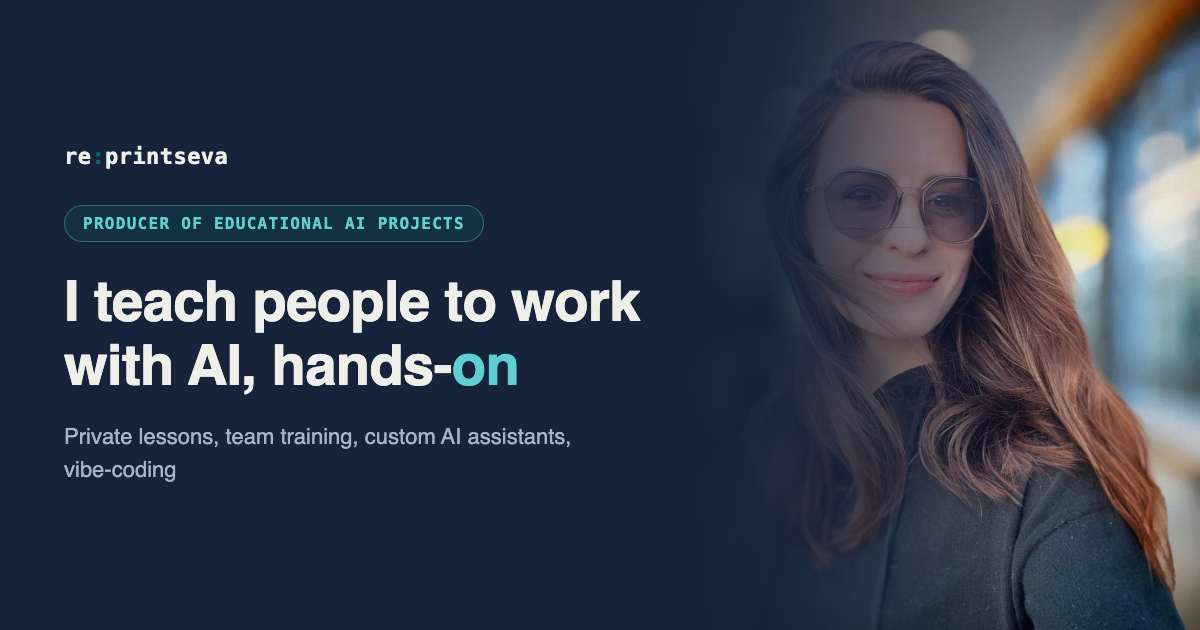
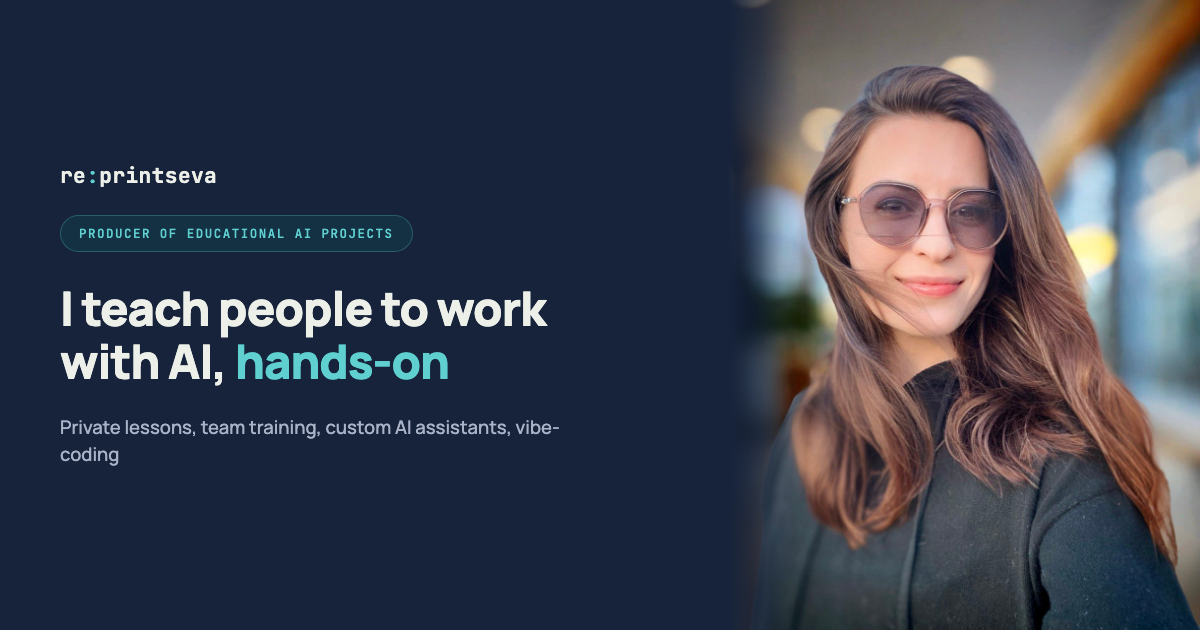
Обложка для соцсетей: градиент больше не лежит на лице
Прежняя заливка тянулась до x≈1085 и притемняла левую половину
портрета. Теперь затемнения поверх фото нет вовсе — текст занимает
левые 660px, фото начинается с 728, перекрытия не было изначально.
Шов убран мягким растворением левого края фото в фон (до x≈799,
волосы начинаются с 802).

- og:title и og:description возвращены к короткому варианту —
  он совпадает с текстом на самой картинке
- длинное описание оставлено в meta description для поиска
- добавлен шаблон и скрипт, которыми обложка пересобирается:
  materials/social-images/template-og-personal.html + generate-og-personal.sh
  (исходника прежней обложки не сохранилось)

diff --git a/index.html b/index.html
@@ -10,15 +10,15 @@
 <meta property="og:type" content="website">
 <meta property="og:site_name" content="re:printseva">
 <meta property="og:url" content="https://reprintseva.pro/">
-<meta property="og:title" content="Юлия Репринцева — эксперт по применению ИИ, продюсер образовательных ИИ-проектов">
-<meta property="og:description" content="Учу пользоваться ИИ по-настоящему: частные занятия, обучение команд, кастомные ИИ-ассистенты и продюсирование образовательных ИИ-проектов.">
+<meta property="og:title" content="Юлия Репринцева — обучаю работать с ИИ на практике">
+<meta property="og:description" content="Частные занятия, обучение команд, кастомные ИИ-ассистенты и продюсирование образовательных ИИ-проектов.">
 <meta property="og:image" content="https://reprintseva.pro/assets/img/og-cover.png">
 <meta property="og:image:width" content="1200">
 <meta property="og:image:height" content="630">
 <meta property="og:locale" content="ru_RU">
 <meta name="twitter:card" content="summary_large_image">
-<meta name="twitter:title" content="Юлия Репринцева — эксперт по применению ИИ, продюсер образовательных ИИ-проектов">
-<meta name="twitter:description" content="Учу пользоваться ИИ по-настоящему: частные занятия, обучение команд, кастомные ИИ-ассистенты и продюсирование образовательных ИИ-проектов.">
+<meta name="twitter:title" content="Юлия Репринцева — обучаю работать с ИИ на практике">
+<meta name="twitter:description" content="Частные занятия, обучение команд, кастомные ИИ-ассистенты и продюсирование образовательных ИИ-проектов.">
 <meta name="twitter:image" content="https://reprintseva.pro/assets/img/og-cover.png">
 
 <!-- ЗАМЕНИТЬ: вставь свой Measurement ID с analytics.google.com вместо G-XXXXXXXXXX -->

diff --git a/en/index.html b/en/index.html
@@ -10,15 +10,15 @@
 <meta property="og:type" content="website">
 <meta property="og:site_name" content="re:printseva">
 <meta property="og:url" content="https://reprintseva.pro/en/">
-<meta property="og:title" content="Julia Reprintseva — AI practice expert, producer of educational AI projects">
-<meta property="og:description" content="Real, hands-on AI training: private lessons, team training, custom AI assistants, and producing educational AI projects.">
+<meta property="og:title" content="Julia Reprintseva — I teach people to work with AI, hands-on">
+<meta property="og:description" content="Private lessons, team training, custom AI assistants, and producing educational AI projects.">
 <meta property="og:image" content="https://reprintseva.pro/assets/img/og-cover-en.png">
 <meta property="og:image:width" content="1200">
 <meta property="og:image:height" content="630">
 <meta property="og:locale" content="en_US">
 <meta name="twitter:card" content="summary_large_image">
-<meta name="twitter:title" content="Julia Reprintseva — AI practice expert, producer of educational AI projects">
-<meta name="twitter:description" content="Real, hands-on AI training: private lessons, team training, custom AI assistants, and producing educational AI projects.">
+<meta name="twitter:title" content="Julia Reprintseva — I teach people to work with AI, hands-on">
+<meta name="twitter:description" content="Private lessons, team training, custom AI assistants, and producing educational AI projects.">
 <meta name="twitter:image" content="https://reprintseva.pro/assets/img/og-cover-en.png">
 
 <!-- REPLACE: paste your Measurement ID from analytics.google.com instead of G-XXXXXXXXXX -->
